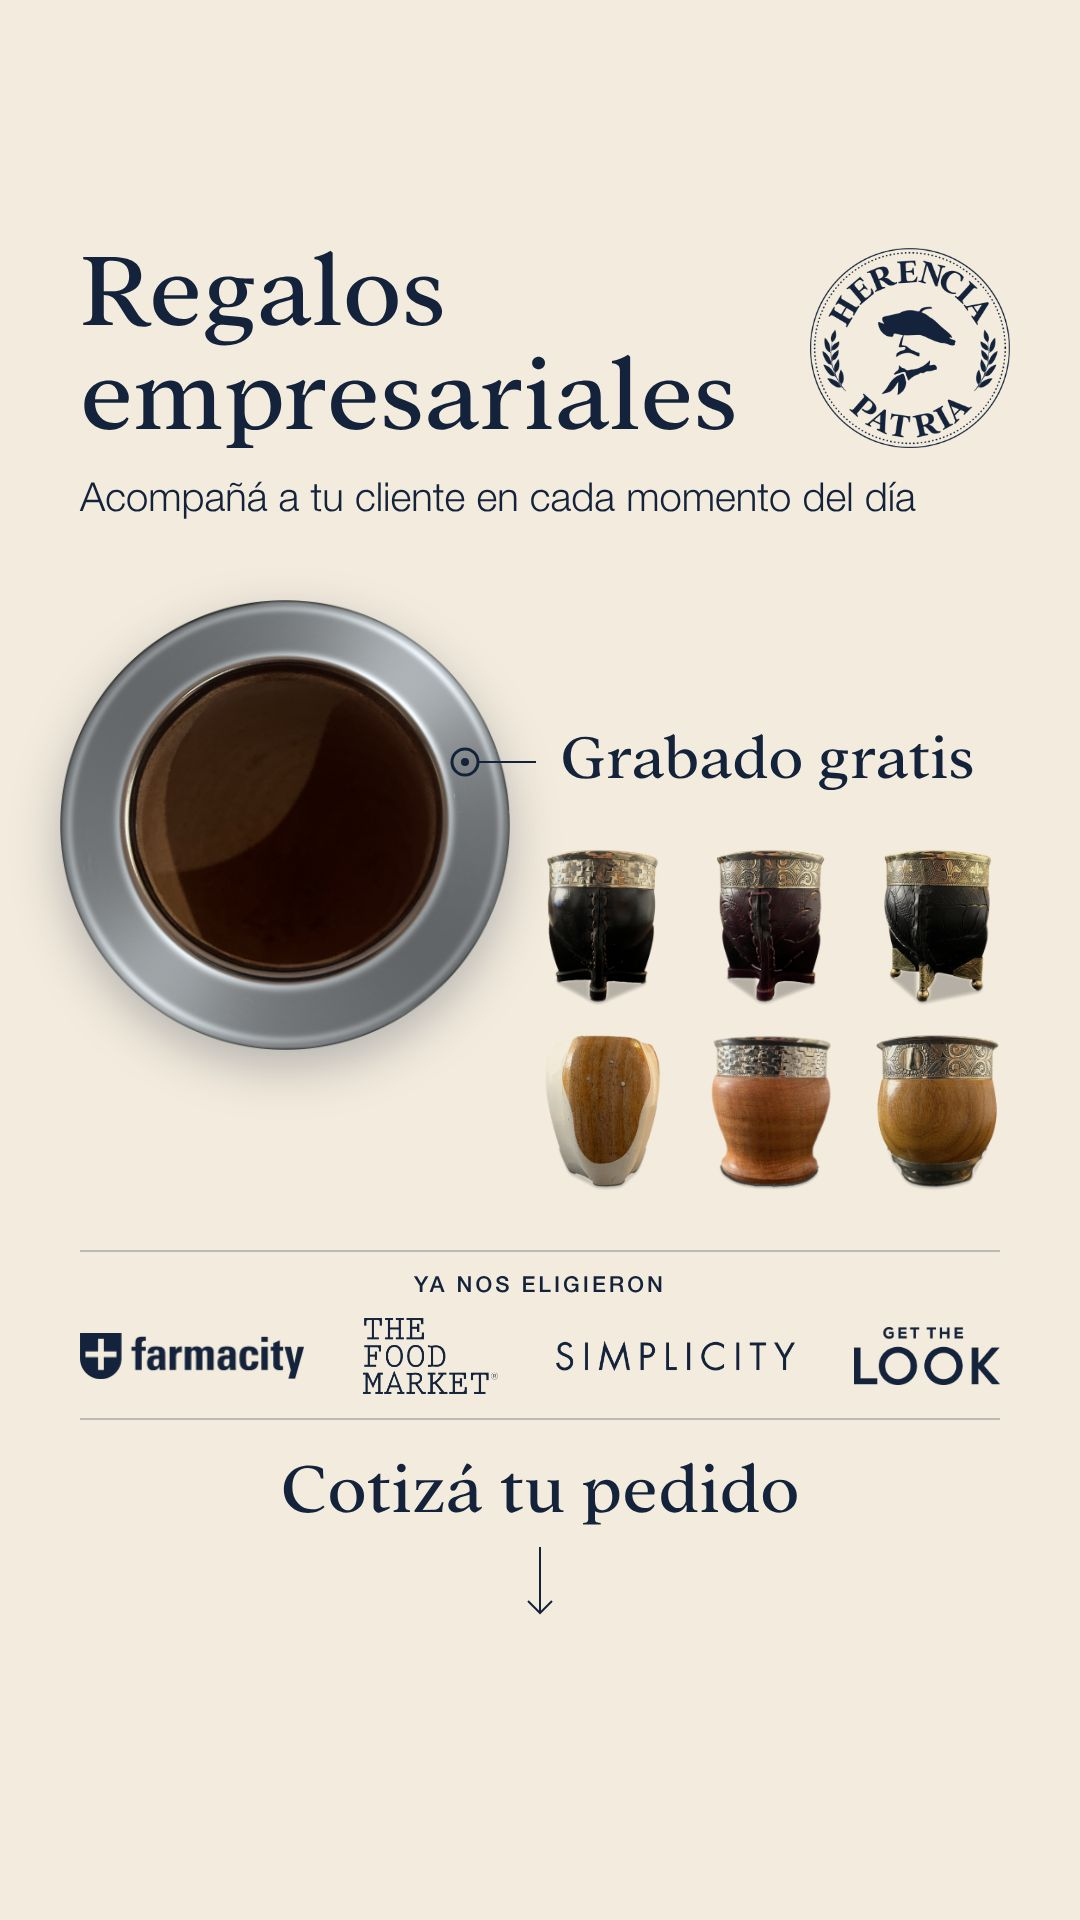
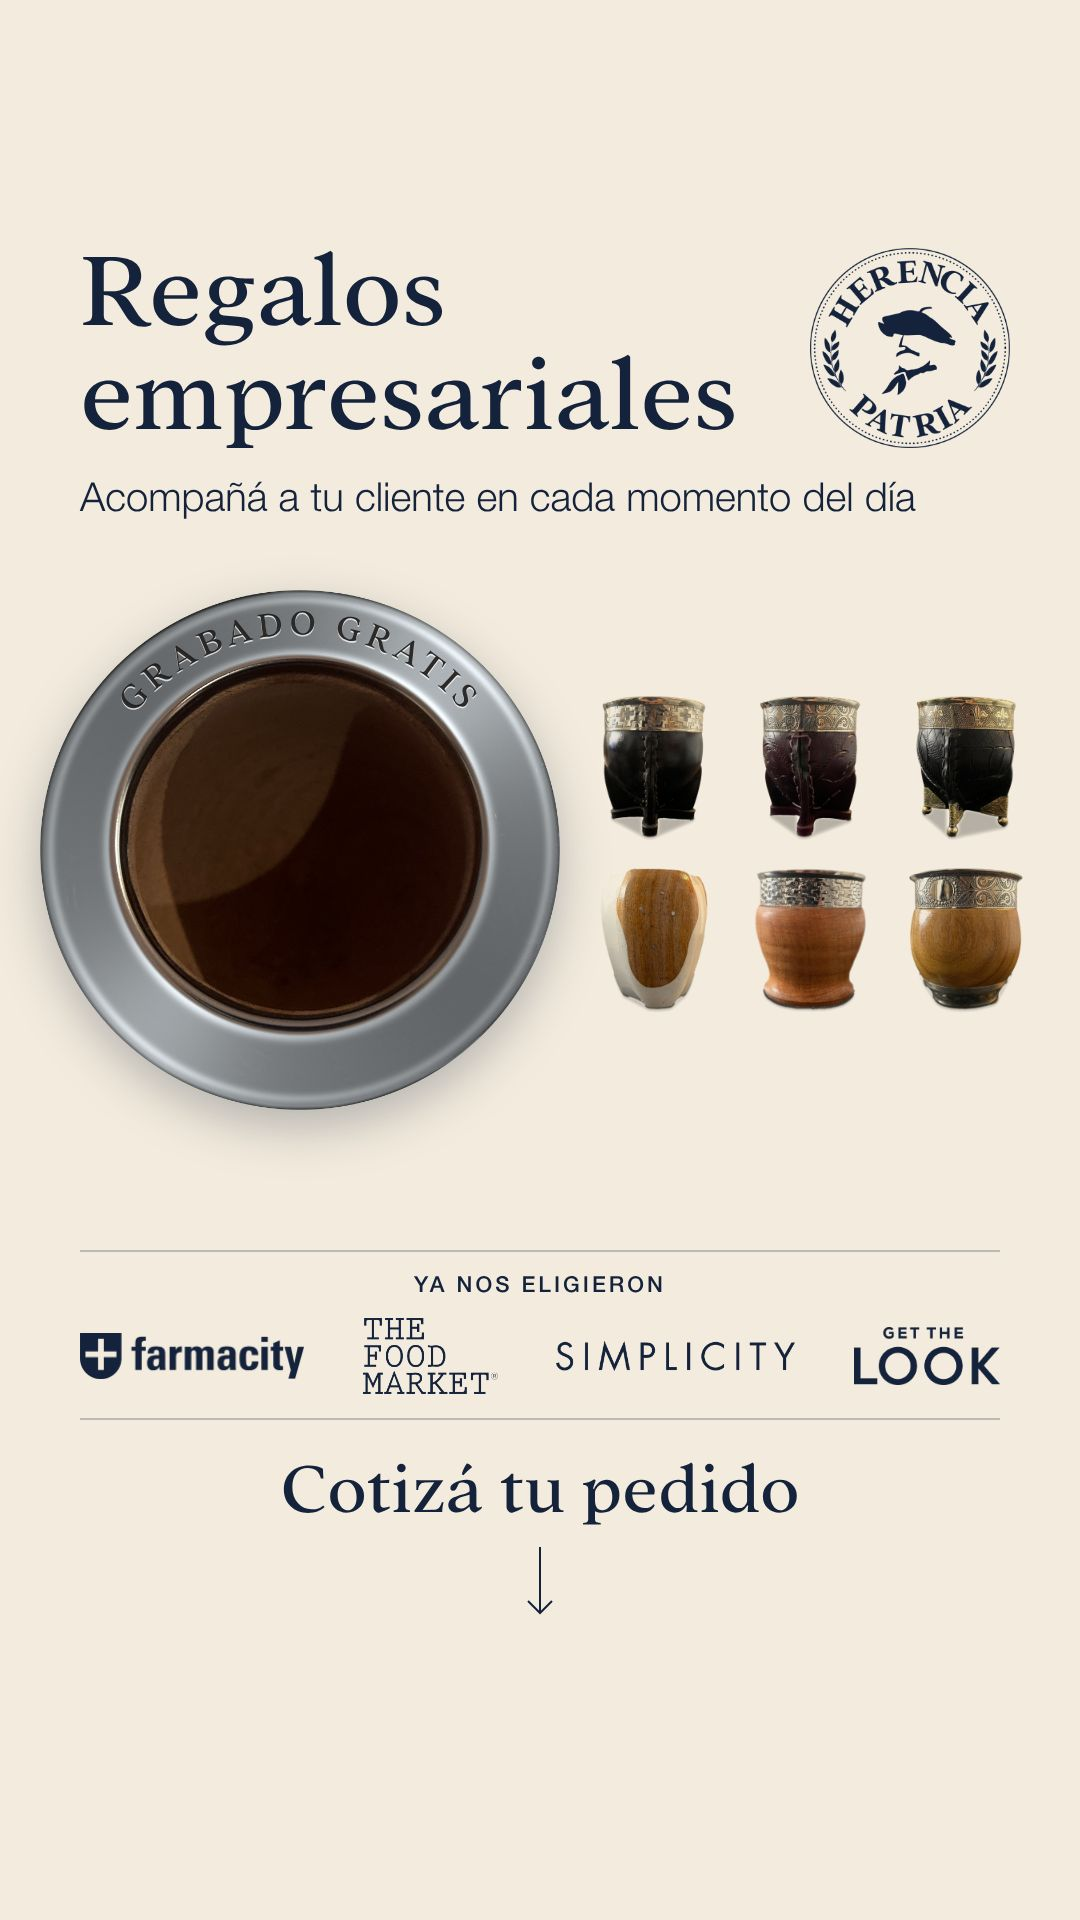
Historia empresarial B: Grabado gratis grabado en el aro
El texto va en curva sobre el anillo de la boca, como tallado en el metal;
sin la línea ni el texto al costado, y los modelos al lado del aro.

Claude-Session: https://claude.ai/code/session_012H3xPSmbqKoMmc2aK7okNH

Changed region(s): [[0.0306, 0.2812, 0.9472, 0.625]]

diff --git a/src/HerenciaPatria/HistoriaEmpresasLogo.tsx b/src/HerenciaPatria/HistoriaEmpresasLogo.tsx
@@ -2,9 +2,9 @@ import { AbsoluteFill, Img, staticFile } from "remotion";
 import { colors, fonts } from "./brand";
 
 // Historia de Instagram (1080x1920) para los pedidos empresariales de fin
-// de año que muestra el beneficio en el producto: un mate grande y una línea
-// que señala el lugar donde va el logo de la empresa, el aro de la boca
-// ("grabado gratis"). Al lado, más chicos, otros modelos; abajo
+// de año que muestra el beneficio en el producto: el aro de la boca de un
+// mate, grande, con "grabado gratis" grabado en el metal, justo donde va el
+// logo de la empresa. Al lado, más chicos, otros modelos; abajo
 // quiénes ya los eligieron y el llamado con una flecha hacia abajo.
 // Crema y azul, Addington y Helvetica Neue, como el resto de la marca. Lo que
 // hay que leer va entre 230 y 1620: Instagram tapa arriba el perfil y abajo
@@ -16,26 +16,15 @@ export const HistoriaEmpresasLogo: React.FC<{
   readonly titulo: string[];
   readonly bajada: string;
   // El mate grande, visto desde arriba y recortado en círculo justo en el
-  // borde del aro (la foto real, sin el fondo), y el punto del aro donde va
-  // el logo, en fracción del ancho y del alto de la foto.
+  // borde del aro (la foto real, sin el fondo), y lo que va grabado en el
+  // aro, en curva por arriba.
   readonly heroe: string;
-  readonly punto: [x: number, y: number];
-  readonly anotacion: string;
+  readonly grabado: string;
   readonly otros: string[];
   readonly confianza: string;
   readonly logos: [archivo: string, alto: number][];
   readonly accion: string;
-}> = ({
-  titulo,
-  bajada,
-  heroe,
-  punto,
-  anotacion,
-  otros,
-  confianza,
-  logos,
-  accion,
-}) => {
+}> = ({ titulo, bajada, heroe, grabado, otros, confianza, logos, accion }) => {
   const rotulo: React.CSSProperties = {
     fontFamily: fonts.sans,
     fontWeight: 500,
@@ -52,14 +41,12 @@ export const HistoriaEmpresasLogo: React.FC<{
     opacity: 0.25,
   };
   // El mate grande, a la izquierda.
-  const lado = 450;
-  const x0 = 60;
-  const y0 = 600;
-  const px = x0 + punto[0] * lado;
-  const py = y0 + punto[1] * lado;
-  const xTexto = 560;
-  // Los otros modelos: una grilla chica a la derecha, bajo la anotación.
-  const chico = 215;
+  const lado = 520;
+  const x0 = 40;
+  const y0 = 590;
+  // Los otros modelos: una grilla chica a la derecha del aro.
+  const chico = 200;
+  const xGrilla = 570;
   return (
     <AbsoluteFill
       style={{
@@ -108,46 +95,50 @@ export const HistoriaEmpresasLogo: React.FC<{
           filter: "drop-shadow(0 18px 24px rgba(20,35,59,0.28))",
         }}
       />
-      {/* La anotación: un punto sobre la virola, una línea fina y el texto. */}
+      {/* El grabado, en curva por arriba del aro: letras oscuras con un
+          brillo apenas corrido hacia abajo, como talladas en el metal. Las
+          coordenadas son las de la foto (948 px). */}
       <svg
-        style={{ position: "absolute", top: 0, left: 0 }}
-        width={1080}
-        height={1920}
-      >
-        <circle
-          cx={px}
-          cy={py}
-          r={13}
-          fill="none"
-          stroke={colors.azul}
-          strokeWidth={3}
-        />
-        <circle cx={px} cy={py} r={4} fill={colors.azul} />
-        <path
-          d={`M ${px + 13} ${py} H ${xTexto - 24}`}
-          stroke={colors.azul}
-          strokeWidth={2}
-        />
-      </svg>
-      <div
+        viewBox="0 0 948 948"
         style={{
           position: "absolute",
-          top: py - 36,
-          left: xTexto,
-          right: 60,
+          top: y0,
+          left: x0,
+          width: lado,
+          height: lado,
         }}
       >
-        <div style={{ fontSize: 64, lineHeight: 1 }}>{anotacion}</div>
-      </div>
+        <defs>
+          <path id="arcoGrabado" d="M 98.2 368.6 A 388 388 0 0 1 847.8 368.6" />
+        </defs>
+        {[
+          { dy: 3, fill: "rgba(255,255,255,0.75)" },
+          { dy: 0, fill: "rgba(28,26,25,0.92)" },
+        ].map(({ dy, fill }) => (
+          <text
+            key={fill}
+            transform={`translate(0 ${dy})`}
+            fill={fill}
+            fontFamily={fonts.serif}
+            fontSize={66}
+            letterSpacing={9}
+            textAnchor="middle"
+          >
+            <textPath href="#arcoGrabado" startOffset="50%">
+              {grabado.toUpperCase()}
+            </textPath>
+          </text>
+        ))}
+      </svg>
       {/* Los otros modelos: dos filas de tres. */}
       {[otros.slice(0, 3), otros.slice(3)].map((fila, i) => (
         <div
           key={fila.join()}
           style={{
             position: "absolute",
-            top: py + 60 + i * chico * 0.86,
-            left: xTexto - 60,
-            right: 40,
+            top: y0 + lado / 2 - chico * 0.9 + i * chico * 0.86,
+            left: xGrilla,
+            right: 30,
             display: "flex",
             justifyContent: "center",
           }}

diff --git a/src/Root.tsx b/src/Root.tsx
@@ -433,8 +433,7 @@ export const RemotionRoot: React.FC = () => {
           titulo: ["Regalos", "empresariales"],
           bajada: "Acompañá a tu cliente en cada momento del día",
           heroe: "mate-boca-arriba.png",
-          punto: [0.9, 0.36] as [number, number],
-          anotacion: "Grabado gratis",
+          grabado: "Grabado gratis",
           // Arriba los de calabaza (simple, repujado y base bolita); abajo
           // los de algarrobo (ranchero, imperial e imperial con base).
           otros: [
